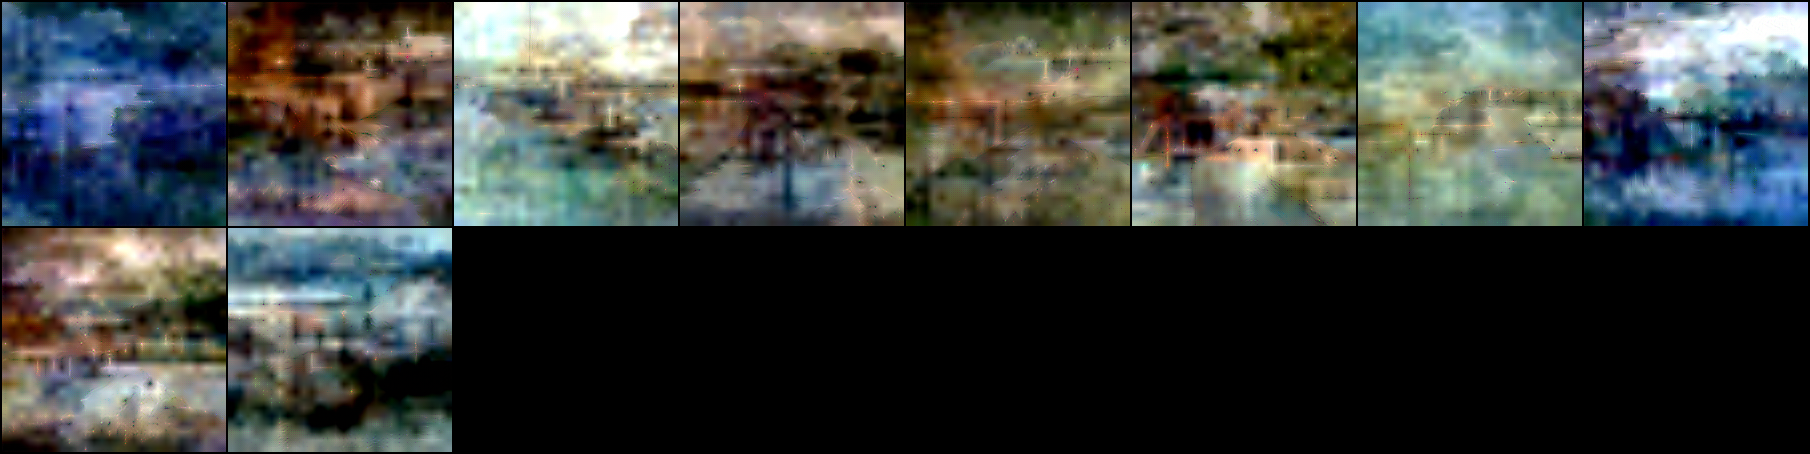
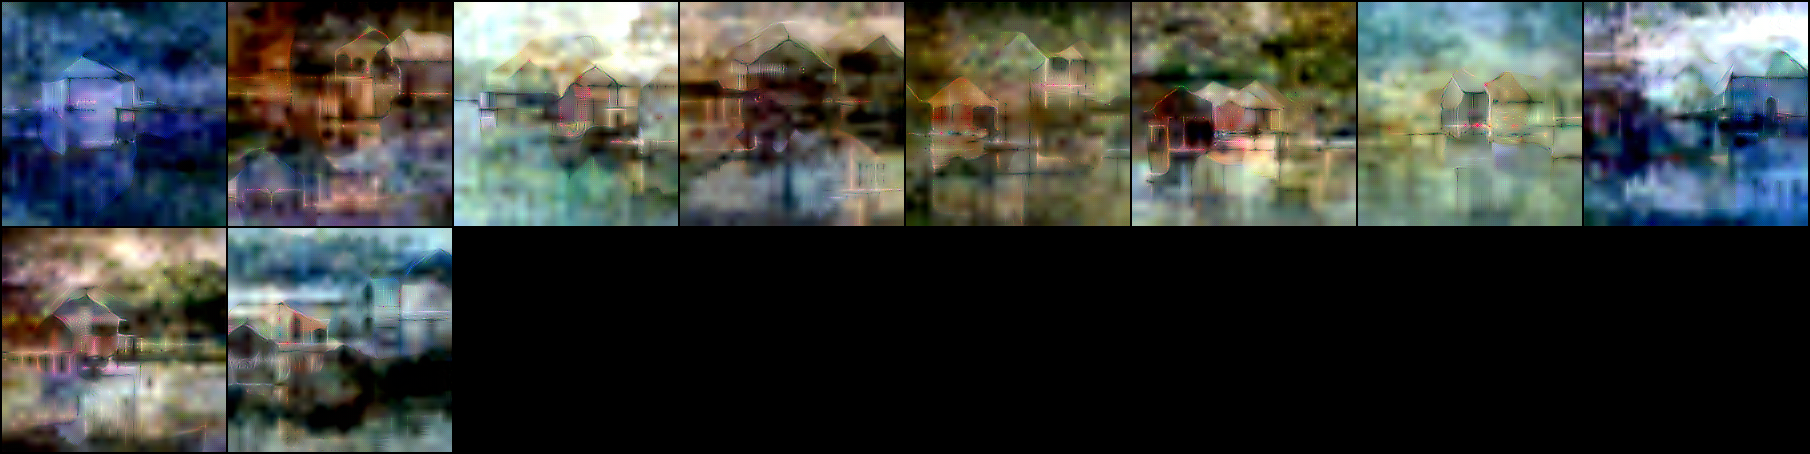
Save

diff --git a/inv_1000.py b/inv_1000.py
@@ -89,7 +89,7 @@ def main():
     kwargs = {
         'custom_loss': generation_loss,
         'constraint': '2',
-        'eps': 40,
+        'eps': 400,
         'step_size': 1,
         'iterations': 60,
         'targeted': True,
